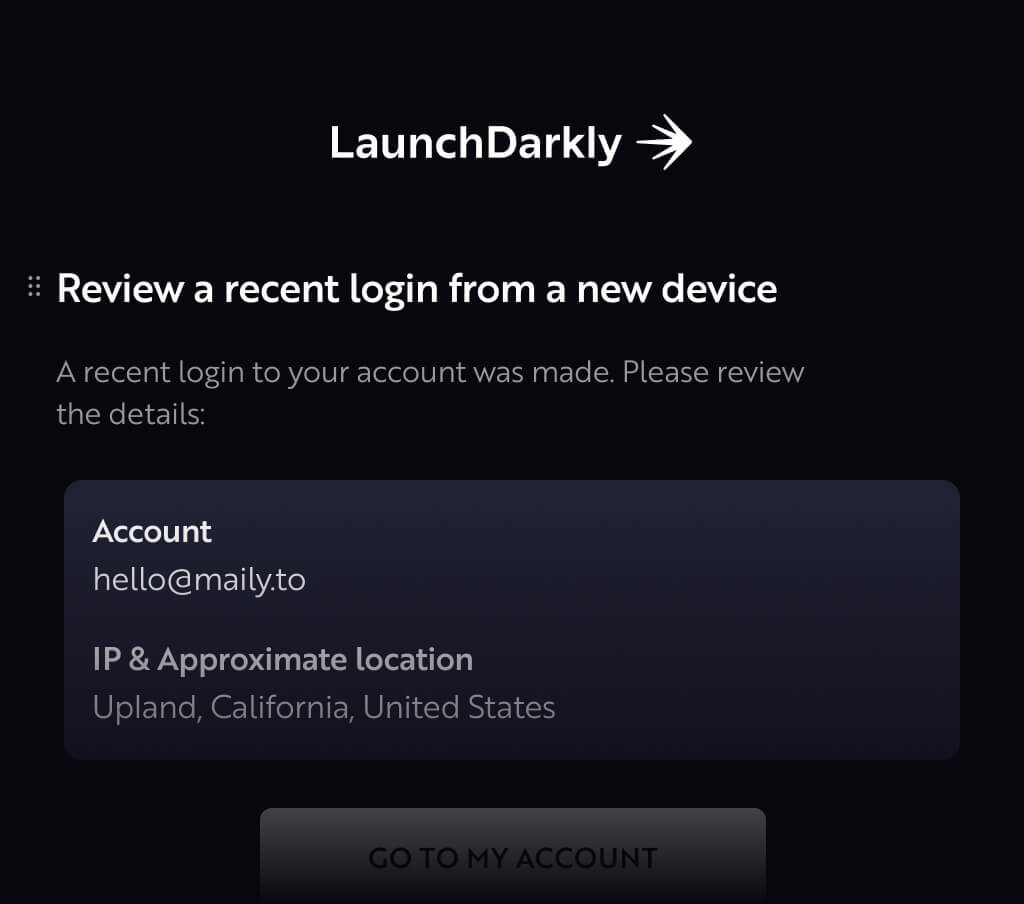
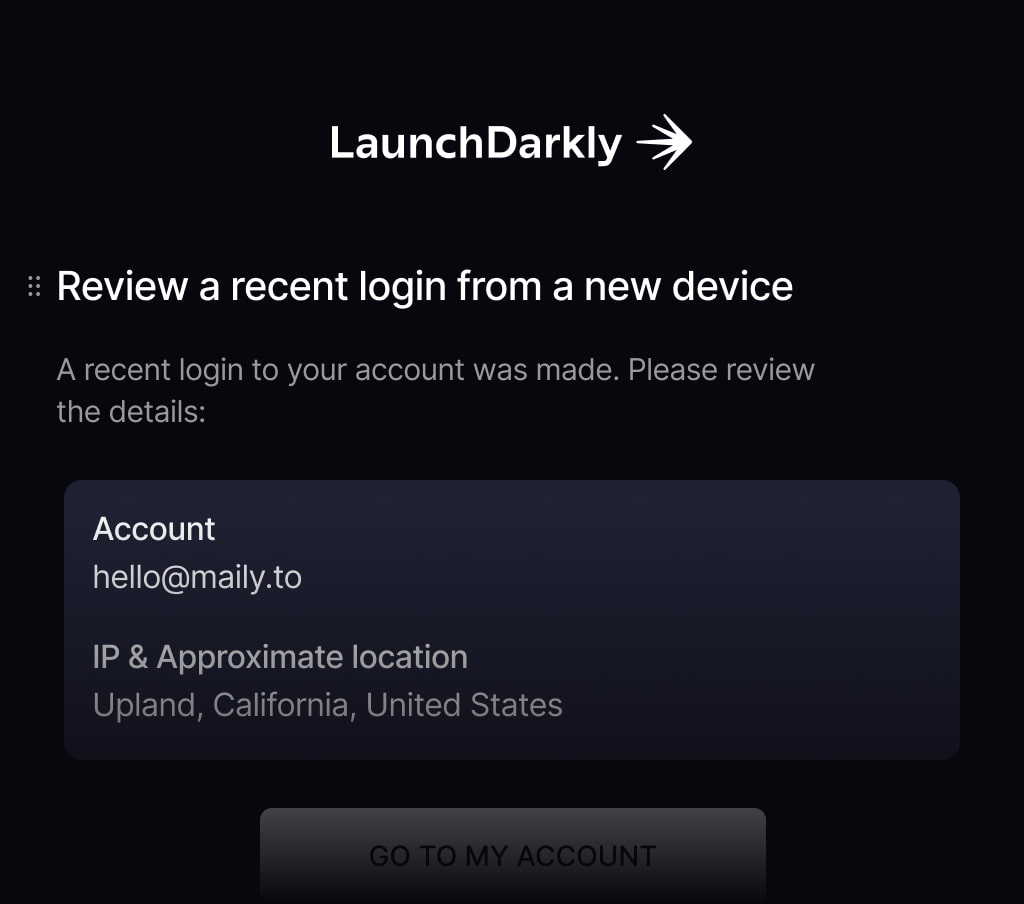
feat: update font family and weight for email editor (#333)
**Describe what changes this pull request brings**

Update font-family for email editor

**Steps to check:**

1. Open [preview](https://deploy-preview-333--novu-website.netlify.app/)
2. Make sure that everything looks and works as expected

---------

diff --git a/src/components/pages/home/email-editor/data/email-content.js b/src/components/pages/home/email-editor/data/email-content.js
@@ -49,9 +49,6 @@ export const emailContents = [
                     color: '#ffffff',
                   },
                 },
-                {
-                  type: 'bold',
-                },
               ],
               text: 'Verify your email address',
             },
@@ -86,9 +83,6 @@ export const emailContents = [
                   attrs: {
                     color: '#ffffff',
                   },
-                },
-                {
-                  type: 'bold',
                 },
               ],
               text: '596853',
@@ -274,9 +268,6 @@ export const emailContents = [
                   attrs: {
                     color: 'rgb(255, 255, 255)',
                   },
-                },
-                {
-                  type: 'bold',
                 },
               ],
               text: 'Log in to your account',
@@ -549,9 +540,6 @@ export const emailContents = [
                   attrs: {
                     color: 'rgb(255, 255, 255)',
                   },
-                },
-                {
-                  type: 'bold',
                 },
               ],
               text: "Here's what Alex wrote",
@@ -874,9 +862,6 @@ export const emailContents = [
                   attrs: {
                     color: '#ffffff',
                   },
-                },
-                {
-                  type: 'bold',
                 },
               ],
               text: 'Review a recent login from a new device',

diff --git a/src/pages/index.jsx b/src/pages/index.jsx
@@ -194,7 +194,7 @@ export function NotificationCenter() {
   
   return (
     <Inbox
-      applicationIdentifier="YOUR_APPLICATION_IDENOUR_APPLICATION_IDENTIFIER"
+      applicationIdentifier="YOUR_APPLICATION_IDENTIFIER"
       subscriberId="YOUR_SUBSCRIBER_ID"
       routerPush={(path: string) => navigate(path)}
     />

diff --git a/src/pages/staging-pages/index-part-2.jsx b/src/pages/staging-pages/index-part-2.jsx
@@ -100,7 +100,7 @@ export function NotificationCenter() {
   
   return (
     <Inbox
-      applicationIdentifier="YOUR_APPLICATION_IDENOUR_APPLICATION_IDENTIFIER"
+      applicationIdentifier="YOUR_APPLICATION_IDENTIFIER"
       subscriberId="YOUR_SUBSCRIBER_ID"
       routerPush={(path: string) => navigate(path)}
     />

diff --git a/src/styles/maily.css b/src/styles/maily.css
@@ -1,6 +1,7 @@
 .editor-wrapper {
   width: 100%;
   height: 100%;
+  font-family: 'Inter', sans-serif;
 
   .editor-body {
     background-color: #08070e;
@@ -15,6 +16,7 @@
   h2,
   h3 {
     color: #999999;
+    font-weight: 500;
   }
 
   h1 {
